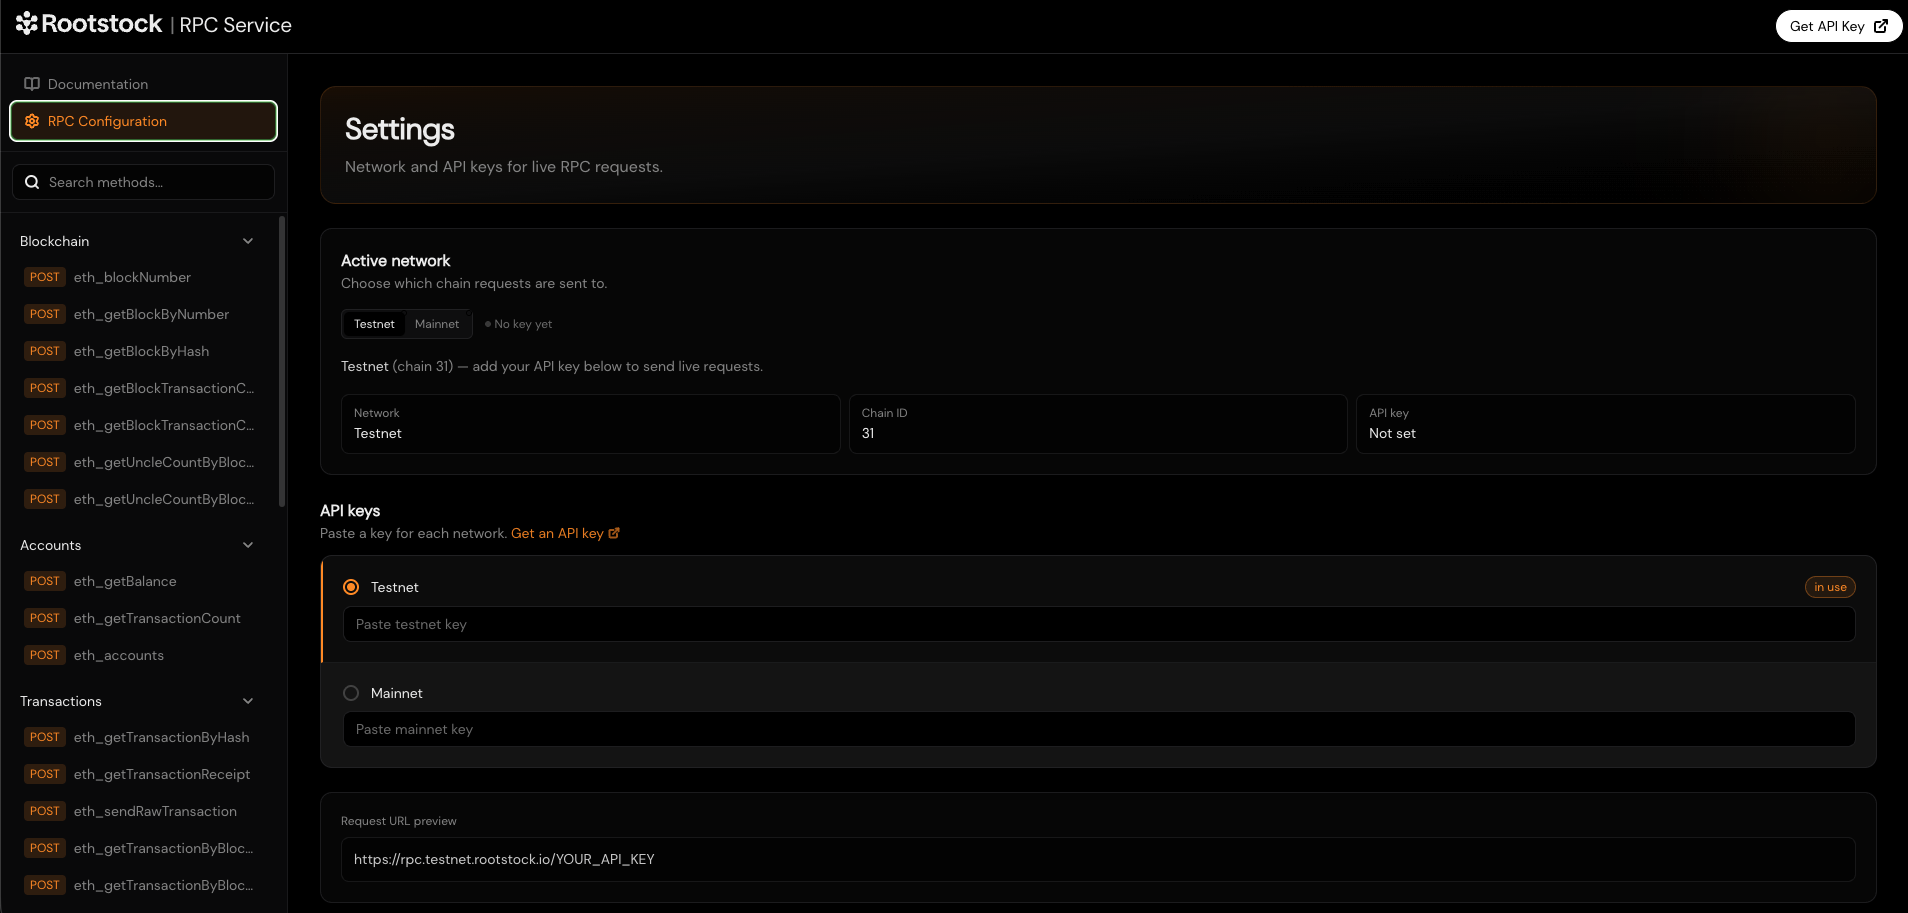
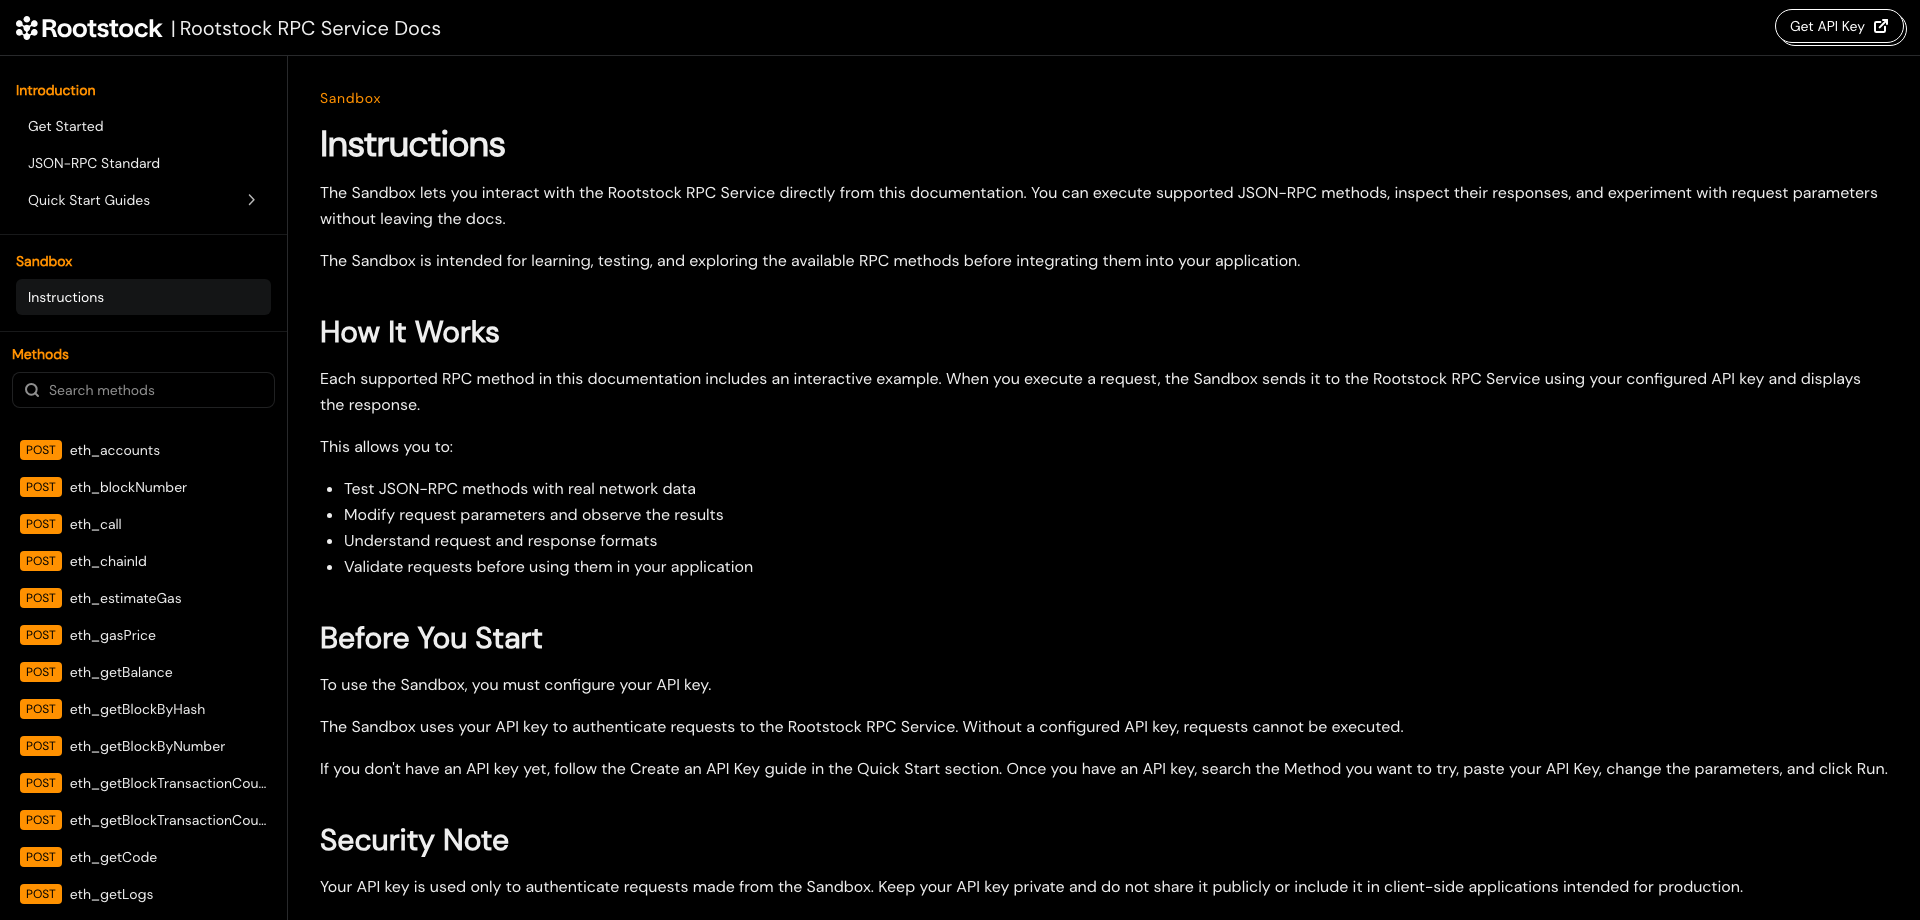
feat: add rootstock interactive rpc page

diff --git a/docs/02-developers/09-use-cases/defi/cross-chain-lending-rbtc.md b/docs/02-developers/09-use-cases/defi/cross-chain-lending-rbtc.md
@@ -8,7 +8,7 @@ tags: [rsk, rootstock, rbtc, usdt0, lending, cross-chain, layerzero, umbrella, r
 
 :::info[Info]
 
-This is the **comprehensive tutorial** for the rBTC-USDT0 cross‑chain lending [starter kit]((https://github.com/rsksmart/rbtc-usdt0-crosschain-starter-kit)).
+This is the **comprehensive tutorial** for the rBTC-USDT0 cross‑chain lending [starter kit](https://github.com/rsksmart/rbtc-usdt0-crosschain-starter-kit).
 
 :::
 
